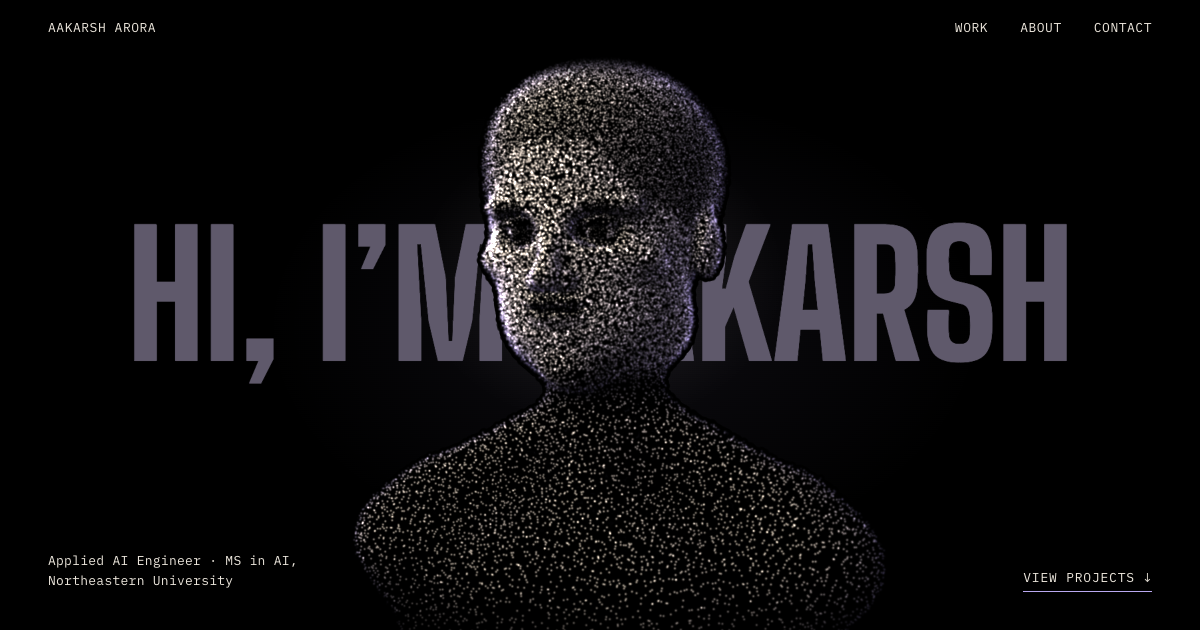
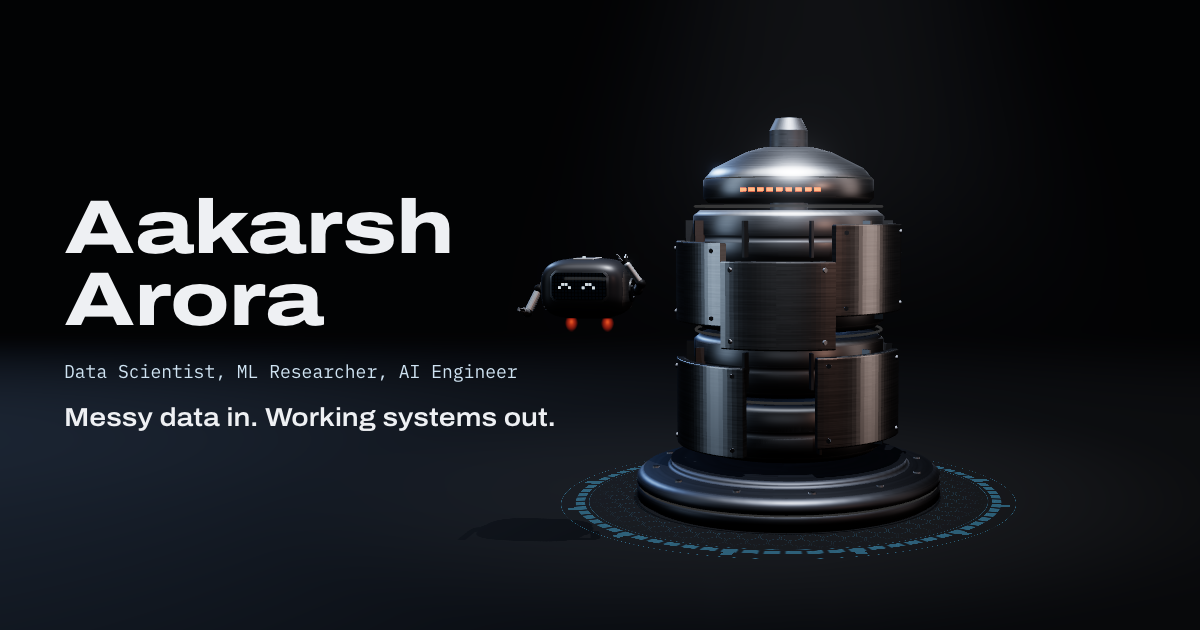
v2 step 8: phones, reduced motion, still frames, pausing, cleanup
- Still frames of the real scene: ?frame=hero|data|model|system|og
  renders one deterministic moment with no page UI; scripts/frames.mjs
  (npm run frames) captures public/frames/*.png and a new public/og.png.
- Phones: the hero keeps the live machine and bot, framed below the copy;
  the canvas fades and stops rendering after the hero; the acts use the
  still frames with callouts as lists; tags are chips; no rail or cursor;
  the palette button reads "Menu".
- Reduced motion, no WebGL or a lost context: no canvas, pinning, Lenis,
  physics, sparks or cursor, with every section in flow beside its frame.
- Rendering pauses when the tab is hidden or the section shows no scene;
  DPR is capped at 1.75 on desktop and 1.25 on phones; the studio now
  disposes its own geometry and materials too. Debug camera switches only
  exist in dev builds.

diff --git a/src/three/WorkshopCanvas.tsx b/src/three/WorkshopCanvas.tsx
@@ -1,7 +1,7 @@
-import { Canvas, useThree } from '@react-three/fiber';
+import { Canvas, useFrame, useThree } from '@react-three/fiber';
 import { Bloom, EffectComposer, ToneMapping } from '@react-three/postprocessing';
 import { ToneMappingMode } from 'postprocessing';
-import { lazy, Suspense, useEffect, useMemo, useState } from 'react';
+import { lazy, Suspense, useEffect, useMemo, useRef, useState } from 'react';
 import { markContextLost, type Mode } from '../lib/env';
 import { currentSection } from '../lib/spy';
 import { BUILD_LENGTH, stage } from '../lib/stage';
@@ -9,7 +9,7 @@ import { BUILD_LENGTH, stage } from '../lib/stage';
 /** Sections after the build that frame the scene with their own camera shot. */
 const AFTER_BUILD = new Set(['projects', 'papers', 'log', 'resume', 'toolbench', 'contact']);
 import { CameraRig, SHOTS, newShot, shotAt, type ShotState } from './CameraRig';
-import { debugCam, fixedP, isCapture, noPost } from './capture';
+import { captureFrame, debugCam, fixedP, isCapture, noPost } from './capture';
 import { HudSync } from './HudSync';
 import { startInput } from './input';
 import { Studio } from './Studio';
@@ -40,6 +40,16 @@ function BenchLoader() {
   );
 }
 
+/** Signals that a still-frame capture has rendered long enough for shadows and sparks to settle. */
+function CaptureReady() {
+  const frames = useRef(0);
+  useFrame(() => {
+    frames.current++;
+    if (frames.current === 90) (window as unknown as { __frameReady: boolean }).__frameReady = true;
+  });
+  return null;
+}
+
 /** Sections where the scene is faded out, so rendering pauses. */
 const NO_SCENE = new Set(['log', 'resume']);
 
@@ -47,7 +57,7 @@ const NO_SCENE = new Set(['log', 'resume']);
  * Pauses rendering when the tab is hidden or the current section shows no scene, and falls back
  * to still frames if the WebGL context is lost.
  */
-function Lifecycle() {
+function Lifecycle({ phone }: { phone: boolean }) {
   const gl = useThree((s) => s.gl);
   const setFrameloop = useThree((s) => s.setFrameloop);
   useEffect(() => {
@@ -60,7 +70,9 @@ function Lifecycle() {
     canvas.addEventListener('webglcontextlost', lost);
     const apply = () => {
       clearTimeout(pauseTimer);
-      const offstage = NO_SCENE.has(currentSection());
+      const section = currentSection();
+      // On phones only the hero is live; the acts below use still frames.
+      const offstage = phone ? section !== 'top' : NO_SCENE.has(section);
       const run = (on: boolean) => {
         setFrameloop(on ? 'always' : 'never');
         canvas.dataset.running = on ? '1' : '0';
@@ -78,7 +90,7 @@ function Lifecycle() {
       document.removeEventListener('visibilitychange', apply);
       window.removeEventListener('section', apply);
     };
-  }, [gl, setFrameloop]);
+  }, [gl, setFrameloop, phone]);
   return null;
 }
 
@@ -102,8 +114,8 @@ export default function WorkshopCanvas({ mode }: { mode: Mode }) {
         out.fov = debugCam[6] ?? 30;
         return out;
       }
-      if (phone) {
-        const s = SHOTS.heroPhone;
+      if (isCapture || phone) {
+        const s = isCapture ? SHOTS[`frame${captureFrame![0].toUpperCase()}${captureFrame!.slice(1)}`] : SHOTS.heroPhone;
         out.pos.fromArray(s.pos);
         out.target.fromArray(s.target);
         out.shift = s.shift;
@@ -145,9 +157,9 @@ export default function WorkshopCanvas({ mode }: { mode: Mode }) {
           if (import.meta.env.DEV) (window as unknown as { __r3f: unknown }).__r3f = state;
         }}
       >
-        <Lifecycle />
+        {isCapture ? <CaptureReady /> : <Lifecycle phone={phone} />}
         <Studio reflect={!phone} shadows={!phone} />
-        <Workshop motion={motion} capture={isCapture} />
+        <Workshop motion={motion} sparks={motion || isCapture} capture={isCapture} />
         {!phone && !isCapture && <BenchLoader />}
         <CameraRig resolve={resolve} immediate={isCapture} />
         <HudSync />

diff --git a/src/three/capture.ts b/src/three/capture.ts
@@ -1,22 +1,22 @@
-// URL switches used by screenshots and still-frame captures.
-//   ?frame=hero|data|model|system|og   render one moment, deterministically, with no HUD
-//   ?p=123                              hold the build at a timeline position (debug)
+// URL switches used by still-frame captures and debugging. No three.js imports.
+//   ?frame=hero|data|model|system|og   render one moment, deterministically, with no page UI
+//   ?p=123                              hold the build at a timeline position
+//   ?cam=x,y,z,tx,ty,tz[,fov]           dev only: override the camera
+//   ?nopost                             dev only: disable postprocessing
 const params = new URLSearchParams(location.search);
 
+/** Timeline positions for the still frames. */
 export const FRAME_P: Record<string, number> = {
   hero: 0,
-  data: 112,
+  data: 94,
   model: 246,
   system: 386,
-  og: 386,
+  og: 388,
 };
 
 export const captureFrame = params.get('frame');
-export const fixedP = captureFrame ? FRAME_P[captureFrame] ?? 0 : params.has('p') ? Number(params.get('p')) : null;
-export const isCapture = !!captureFrame;
+export const isCapture = !!captureFrame && captureFrame in FRAME_P;
+export const fixedP = isCapture ? FRAME_P[captureFrame!] : params.has('p') ? Number(params.get('p')) : null;
 
-/** ?cam=x,y,z,tx,ty,tz overrides the camera (debug only). */
-export const debugCam = params.get('cam')?.split(',').map(Number) ?? null;
-
-/** ?nopost disables postprocessing (debug only). */
-export const noPost = params.has('nopost');
+export const debugCam = import.meta.env.DEV ? (params.get('cam')?.split(',').map(Number) ?? null) : null;
+export const noPost = import.meta.env.DEV && params.has('nopost');

diff --git a/src/App.tsx b/src/App.tsx
@@ -13,13 +13,40 @@ import { ResumeButton } from './components/ResumeButton';
 import { SocialDock } from './components/SocialDock';
 import { Toolbench } from './components/Toolbench';
 import { portfolio } from './content/portfolio';
+import { captureFrame, isCapture } from './three/capture';
 import { hasFinePointer, useMode } from './lib/env';
 import { interceptHashLinks, scrollToTarget, startSmoothScroll } from './lib/scroll';
 import { startSpy } from './lib/spy';
 
 const WorkshopCanvas = lazy(() => import('./three/WorkshopCanvas'));
 
+/**
+ * Still-frame capture (?frame=…): only the scene, for public/frames/*.png and the OG image.
+ * The OG frame adds the name and title over the scene.
+ */
+function CaptureApp({ frame }: { frame: string }) {
+  return (
+    <div className="capture" data-frame={frame}>
+      <Suspense fallback={null}>
+        <WorkshopCanvas mode="live" />
+      </Suspense>
+      {frame === 'og' && (
+        <div className="og-copy">
+          <p className="og-name">{portfolio.site.name}</p>
+          <p className="og-role">Data Scientist, ML Researcher, AI Engineer</p>
+          <p className="og-tagline">{portfolio.hero.tagline}</p>
+        </div>
+      )}
+    </div>
+  );
+}
+
 export function App() {
+  if (isCapture) return <CaptureApp frame={captureFrame!} />;
+  return <Site />;
+}
+
+function Site() {
   const mode = useMode();
   const [finePointer] = useState(hasFinePointer);
 

diff --git a/src/styles/chrome.css b/src/styles/chrome.css
@@ -476,9 +476,29 @@ kbd {
   background: var(--molten);
 }
 
+.nav-k-keys {
+  display: inline-flex;
+  gap: 3px;
+}
+
+.nav-k-label {
+  display: none;
+  font-size: 14px;
+  font-weight: 600;
+}
+
 @media (max-width: 767px) {
   .nav-list {
     display: none;
+  }
+  .nav-k-keys {
+    display: none;
+  }
+  .nav-k-label {
+    display: inline;
+  }
+  .nav-k {
+    padding: 8px 14px;
   }
 }
 
@@ -576,4 +596,47 @@ html[data-bot-hover] .cursor-ring {
   from {
     translate: 0 6px;
   }
+}
+
+/* Still-frame capture page */
+.capture {
+  position: fixed;
+  inset: 0;
+  background: var(--graphite);
+}
+
+.og-copy {
+  position: absolute;
+  left: 64px;
+  top: 0;
+  bottom: 0;
+  display: flex;
+  flex-direction: column;
+  justify-content: center;
+  z-index: 2;
+}
+
+.og-name {
+  font-family: var(--font-display);
+  font-weight: 800;
+  font-stretch: 125%;
+  font-size: 76px;
+  line-height: 0.95;
+  width: 6.2em;
+}
+
+.og-role {
+  margin-top: 22px;
+  font-family: var(--font-mono);
+  font-size: 18px;
+  color: var(--ice);
+}
+
+.og-tagline {
+  margin-top: 10px;
+  font-family: var(--font-display);
+  font-weight: 600;
+  font-stretch: 112%;
+  font-size: 26px;
+  color: var(--text);
 }

diff --git a/src/three/Studio.tsx b/src/three/Studio.tsx
@@ -1,6 +1,6 @@
 import { Environment, Lightformer, MeshReflectorMaterial } from '@react-three/drei';
 import { useFrame } from '@react-three/fiber';
-import { useMemo, useRef } from 'react';
+import { useEffect, useMemo, useRef } from 'react';
 import { AdditiveBlending, CylinderGeometry, DoubleSide, Object3D, ShaderMaterial, type SpotLight } from 'three';
 import { stage } from '../lib/stage';
 import { blueprint } from './choreo';
@@ -41,6 +41,13 @@ function LightCone() {
     [],
   );
   const geo = useMemo(() => new CylinderGeometry(0.12, 2.3, 6.2, 64, 1, true).translate(0, 3.1, 0), []);
+  useEffect(
+    () => () => {
+      geo.dispose();
+      mat.dispose();
+    },
+    [geo, mat],
+  );
   return <mesh geometry={geo} material={mat} position={[0.25, 0, 0.3]} renderOrder={1} />;
 }
 
@@ -90,6 +97,7 @@ function Projector() {
       }),
     [],
   );
+  useEffect(() => () => mat.dispose(), [mat]);
   useFrame(({ clock }) => {
     mat.uniforms.uTime.value = clock.elapsedTime;
     const lit = stage.highlight?.chips.includes('data') ? 0.7 : 0;

diff --git a/src/three/CameraRig.tsx b/src/three/CameraRig.tsx
@@ -15,7 +15,13 @@ export const SHOTS: Record<string, Shot> = {
   projects: { pos: [0.1, 1.7, 9.6], target: [0.08, 1.08, 0], shift: 0.31 },
   toolbench: { pos: [30, 3.15, 3.55], target: [30, 0, 0.12], shift: 0.06, lift: 0.07 },
   contact: { pos: [-2.0, 1.62, 5.8], target: [-2.0, 1.4, 3.35], shift: 0, lift: -0.2 },
-  heroPhone: { pos: [0.2, 1.55, 7.4], target: [0.15, 0.95, 0], shift: 0, lift: 0.17, fov: 34 },
+  // Still frames: centred, for the phone, reduced-motion and no-WebGL layouts.
+  frameHero: { pos: [0.4, 1.75, 7.4], target: [0.12, 1.02, 0], shift: 0 },
+  frameData: { pos: [-1.75, 1.5, 5.0], target: [-2.05, 0.6, 0.25], shift: 0 },
+  frameModel: { pos: [0.95, 1.9, 6.3], target: [0.12, 1.1, 0], shift: 0 },
+  frameSystem: { pos: [0.55, 1.75, 6.9], target: [-0.1, 1.06, 0], shift: 0 },
+  frameOg: { pos: [0.7, 1.68, 6.9], target: [0.02, 1.08, 0], shift: 0.16 },
+  heroPhone: { pos: [0.35, 1.7, 9.6], target: [0.15, 1.0, 0], shift: 0, lift: 0.27, fov: 34 },
 };
 
 /** Camera keyframes along the build: [p, shot]. */

diff --git a/src/three/Workshop.tsx b/src/three/Workshop.tsx
@@ -18,7 +18,7 @@ const v = new Vector3();
 export const BOT_SCALE = 1.35;
 
 /** The machine, the bot and the sparks, driven every frame from the build timeline. */
-export function Workshop({ motion, capture }: { motion: boolean; capture: boolean }) {
+export function Workshop({ motion, sparks: sparksOn, capture }: { motion: boolean; sparks: boolean; capture: boolean }) {
   const machine = useMemo(buildMachine, []);
   const bot = useMemo(() => {
     const b = buildBot();
@@ -101,8 +101,8 @@ export function Workshop({ motion, capture }: { motion: boolean; capture: boolea
     bot.root.updateMatrixWorld(true);
     bot.setPose(brain.pose);
 
-    if (motion && brain.pose.weld > 0.05) sparks.emit(bot.weldTip(), 260 * brain.pose.weld, dt);
-    if (motion) sparks.update(Math.min(dt, 0.05));
+    if (sparksOn && brain.pose.weld > 0.05) sparks.emit(bot.weldTip(), 260 * brain.pose.weld, dt);
+    if (sparksOn) sparks.update(Math.min(dt, 0.05));
     else sparks.clear();
   }, -1);
 

diff --git a/src/styles/stage.css b/src/styles/stage.css
@@ -52,6 +52,10 @@ html[data-mode='live'] .frame {
   display: none;
 }
 
+html[data-mode='live'] .hero-name {
+  font-size: clamp(56px, 7.2vw, 108px);
+}
+
 html[data-mode='live'] .hero-copy,
 html[data-mode='live'] .act-copy {
   position: absolute;
@@ -425,4 +429,22 @@ html[data-mode='live'] .contact {
 html[data-grabbing],
 html[data-grabbing] * {
   user-select: none;
+}
+
+/* Phones: the scene is live behind the hero only; the acts use still frames. */
+html[data-mode='phone']:not([data-section='top']) .webgl {
+  opacity: 0;
+}
+
+html[data-mode='phone'] .hero-frame {
+  display: none;
+}
+
+html[data-mode='phone'] .hero {
+  align-content: start;
+  padding-top: calc(var(--nav-h) + 28px);
+}
+
+html[data-mode='phone'] .hero-copy {
+  text-shadow: 0 1px 12px rgba(15, 16, 19, 0.9);
 }

diff --git a/src/styles/build.css b/src/styles/build.css
@@ -24,7 +24,7 @@
   font-family: var(--font-display);
   font-weight: 800;
   font-stretch: 125%;
-  font-size: clamp(44px, 7.4vw, 104px);
+  font-size: clamp(44px, 6.4vw, 104px);
   line-height: 0.92;
   letter-spacing: -0.01em;
 }
@@ -190,9 +190,13 @@
   font-size: 14px;
 }
 
+html[data-mode='static'] .hero-cue {
+  display: none;
+}
+
 @media (min-width: 900px) {
   .hero {
-    grid-template-columns: minmax(0, 5fr) minmax(0, 6fr);
+    grid-template-columns: minmax(0, 6fr) minmax(0, 6fr);
     align-items: center;
   }
   .act {

diff --git a/src/components/Callout.tsx b/src/components/Callout.tsx
@@ -10,7 +10,7 @@ export function Callout({ c }: { c: CalloutData }) {
   const detailId = useId();
   const bullet = c.bullet && bulletFor(c.bullet);
   return (
-    <li className="callout hud-glass" data-callout={c.id} data-anchor={c.anchor} data-open={open || undefined}>
+    <li className="callout" data-callout={c.id} data-anchor={c.anchor} data-open={open || undefined}>
       <button
         type="button"
         className="callout-face"

diff --git a/src/components/Nav.tsx b/src/components/Nav.tsx
@@ -34,8 +34,11 @@ export function Nav() {
         aria-label="Open command palette"
         aria-keyshortcuts={mac ? 'Meta+K /' : 'Control+K /'}
       >
-        <kbd>{mac ? '⌘' : 'Ctrl'}</kbd>
-        <kbd>K</kbd>
+        <span className="nav-k-keys">
+          <kbd>{mac ? '⌘' : 'Ctrl'}</kbd>
+          <kbd>K</kbd>
+        </span>
+        <span className="nav-k-label">Menu</span>
       </button>
     </header>
   );
